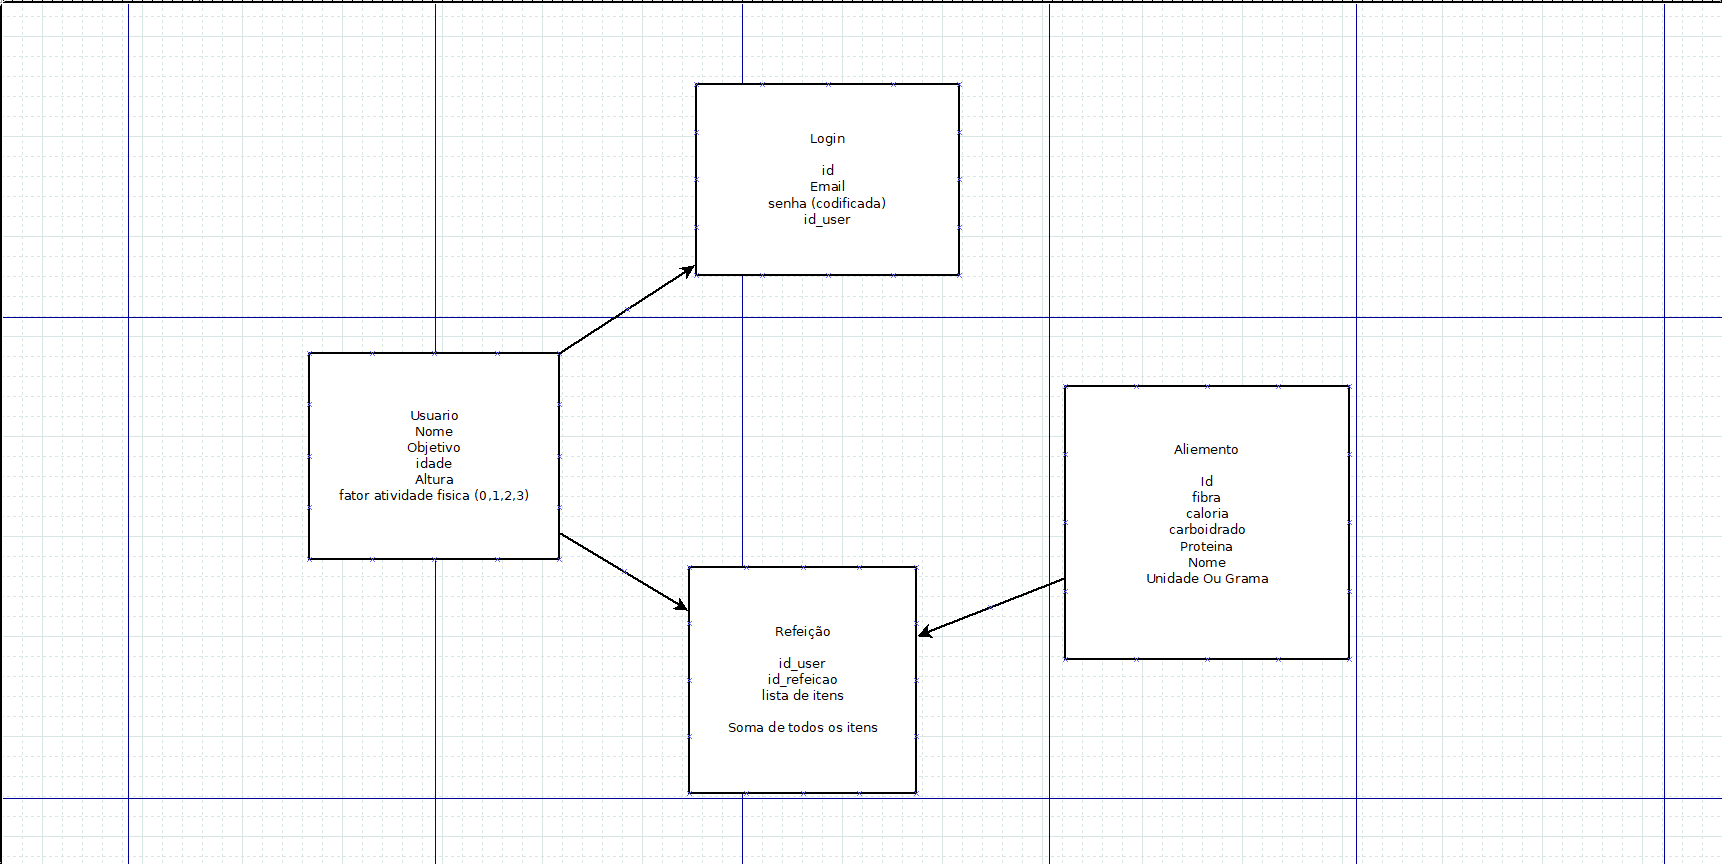
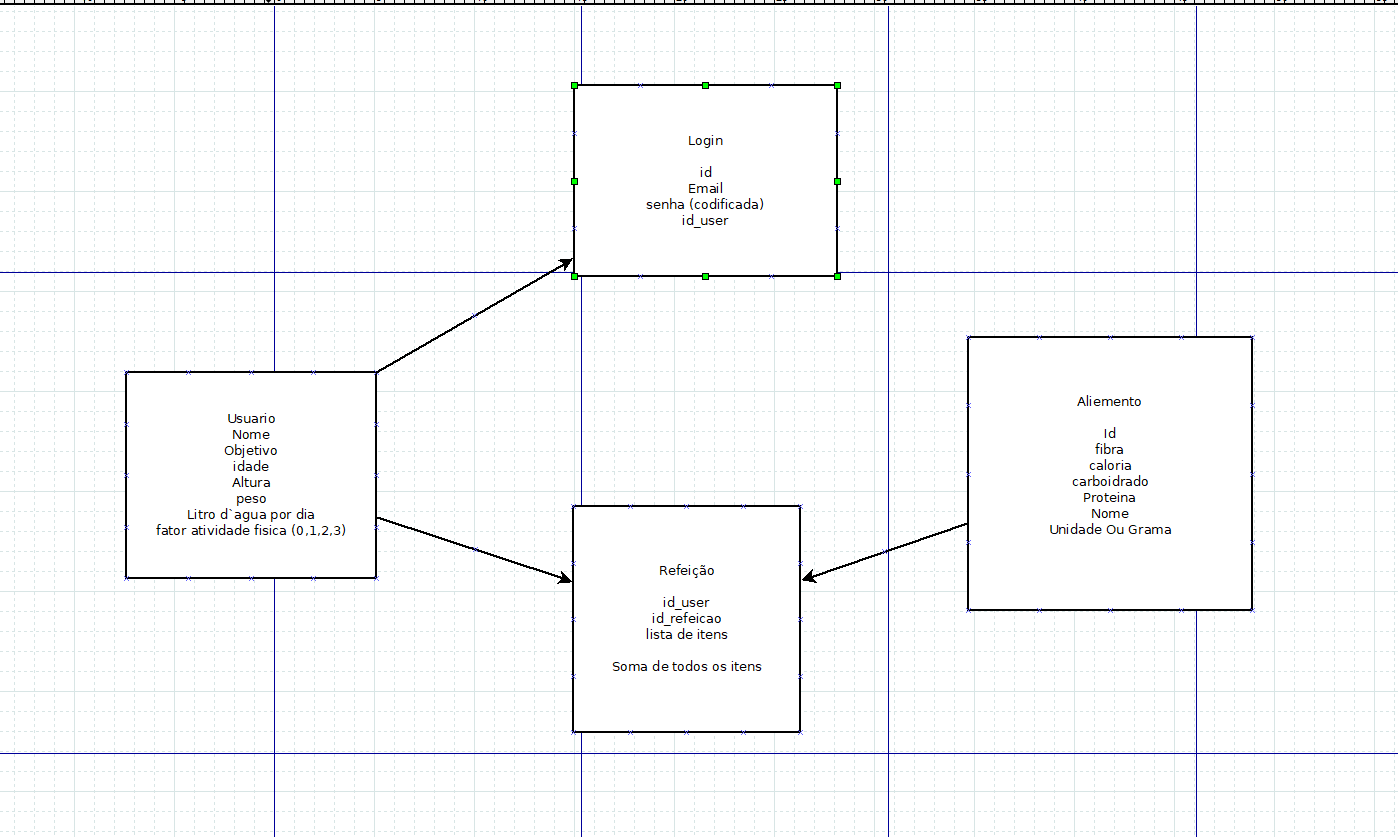
att no escopo e tabela de informacoes de usuarios

diff --git a/api/database/migrations/2023_10_07_042621_users_info.php b/api/database/migrations/2023_10_07_042621_users_info.php
@@ -1,0 +1,40 @@
+<?php
+
+use Illuminate\Database\Migrations\Migration;
+use Illuminate\Database\Schema\Blueprint;
+use Illuminate\Support\Facades\Schema;
+
+class UsersInfo extends Migration
+{
+    /**
+     * Run the migrations.
+     *
+     * @return void
+     */
+    public function up()
+    {
+        Schema::create('users_info', function (Blueprint $table){
+            $table->id();
+            $table->unsignedBigInteger('user_id');
+            $table->string('name')->default();
+            $table->integer('age')->default();
+            $table->integer('tall')->default();
+            $table->integer('weigh')->default();
+            $table->enum('objective', ['0', '1']);
+            $table->enum('physical_activity', ['0', '1', '2', '3']);
+            $table->integer('water')->default();
+            $table->timestamps();
+            $table->foreign('user_id')->references('id')->on('users');
+        });
+    }
+
+    /**
+     * Reverse the migrations.
+     *
+     * @return void
+     */
+    public function down()
+    {
+        Schema::dropIfExists('users_info');
+    }
+}
